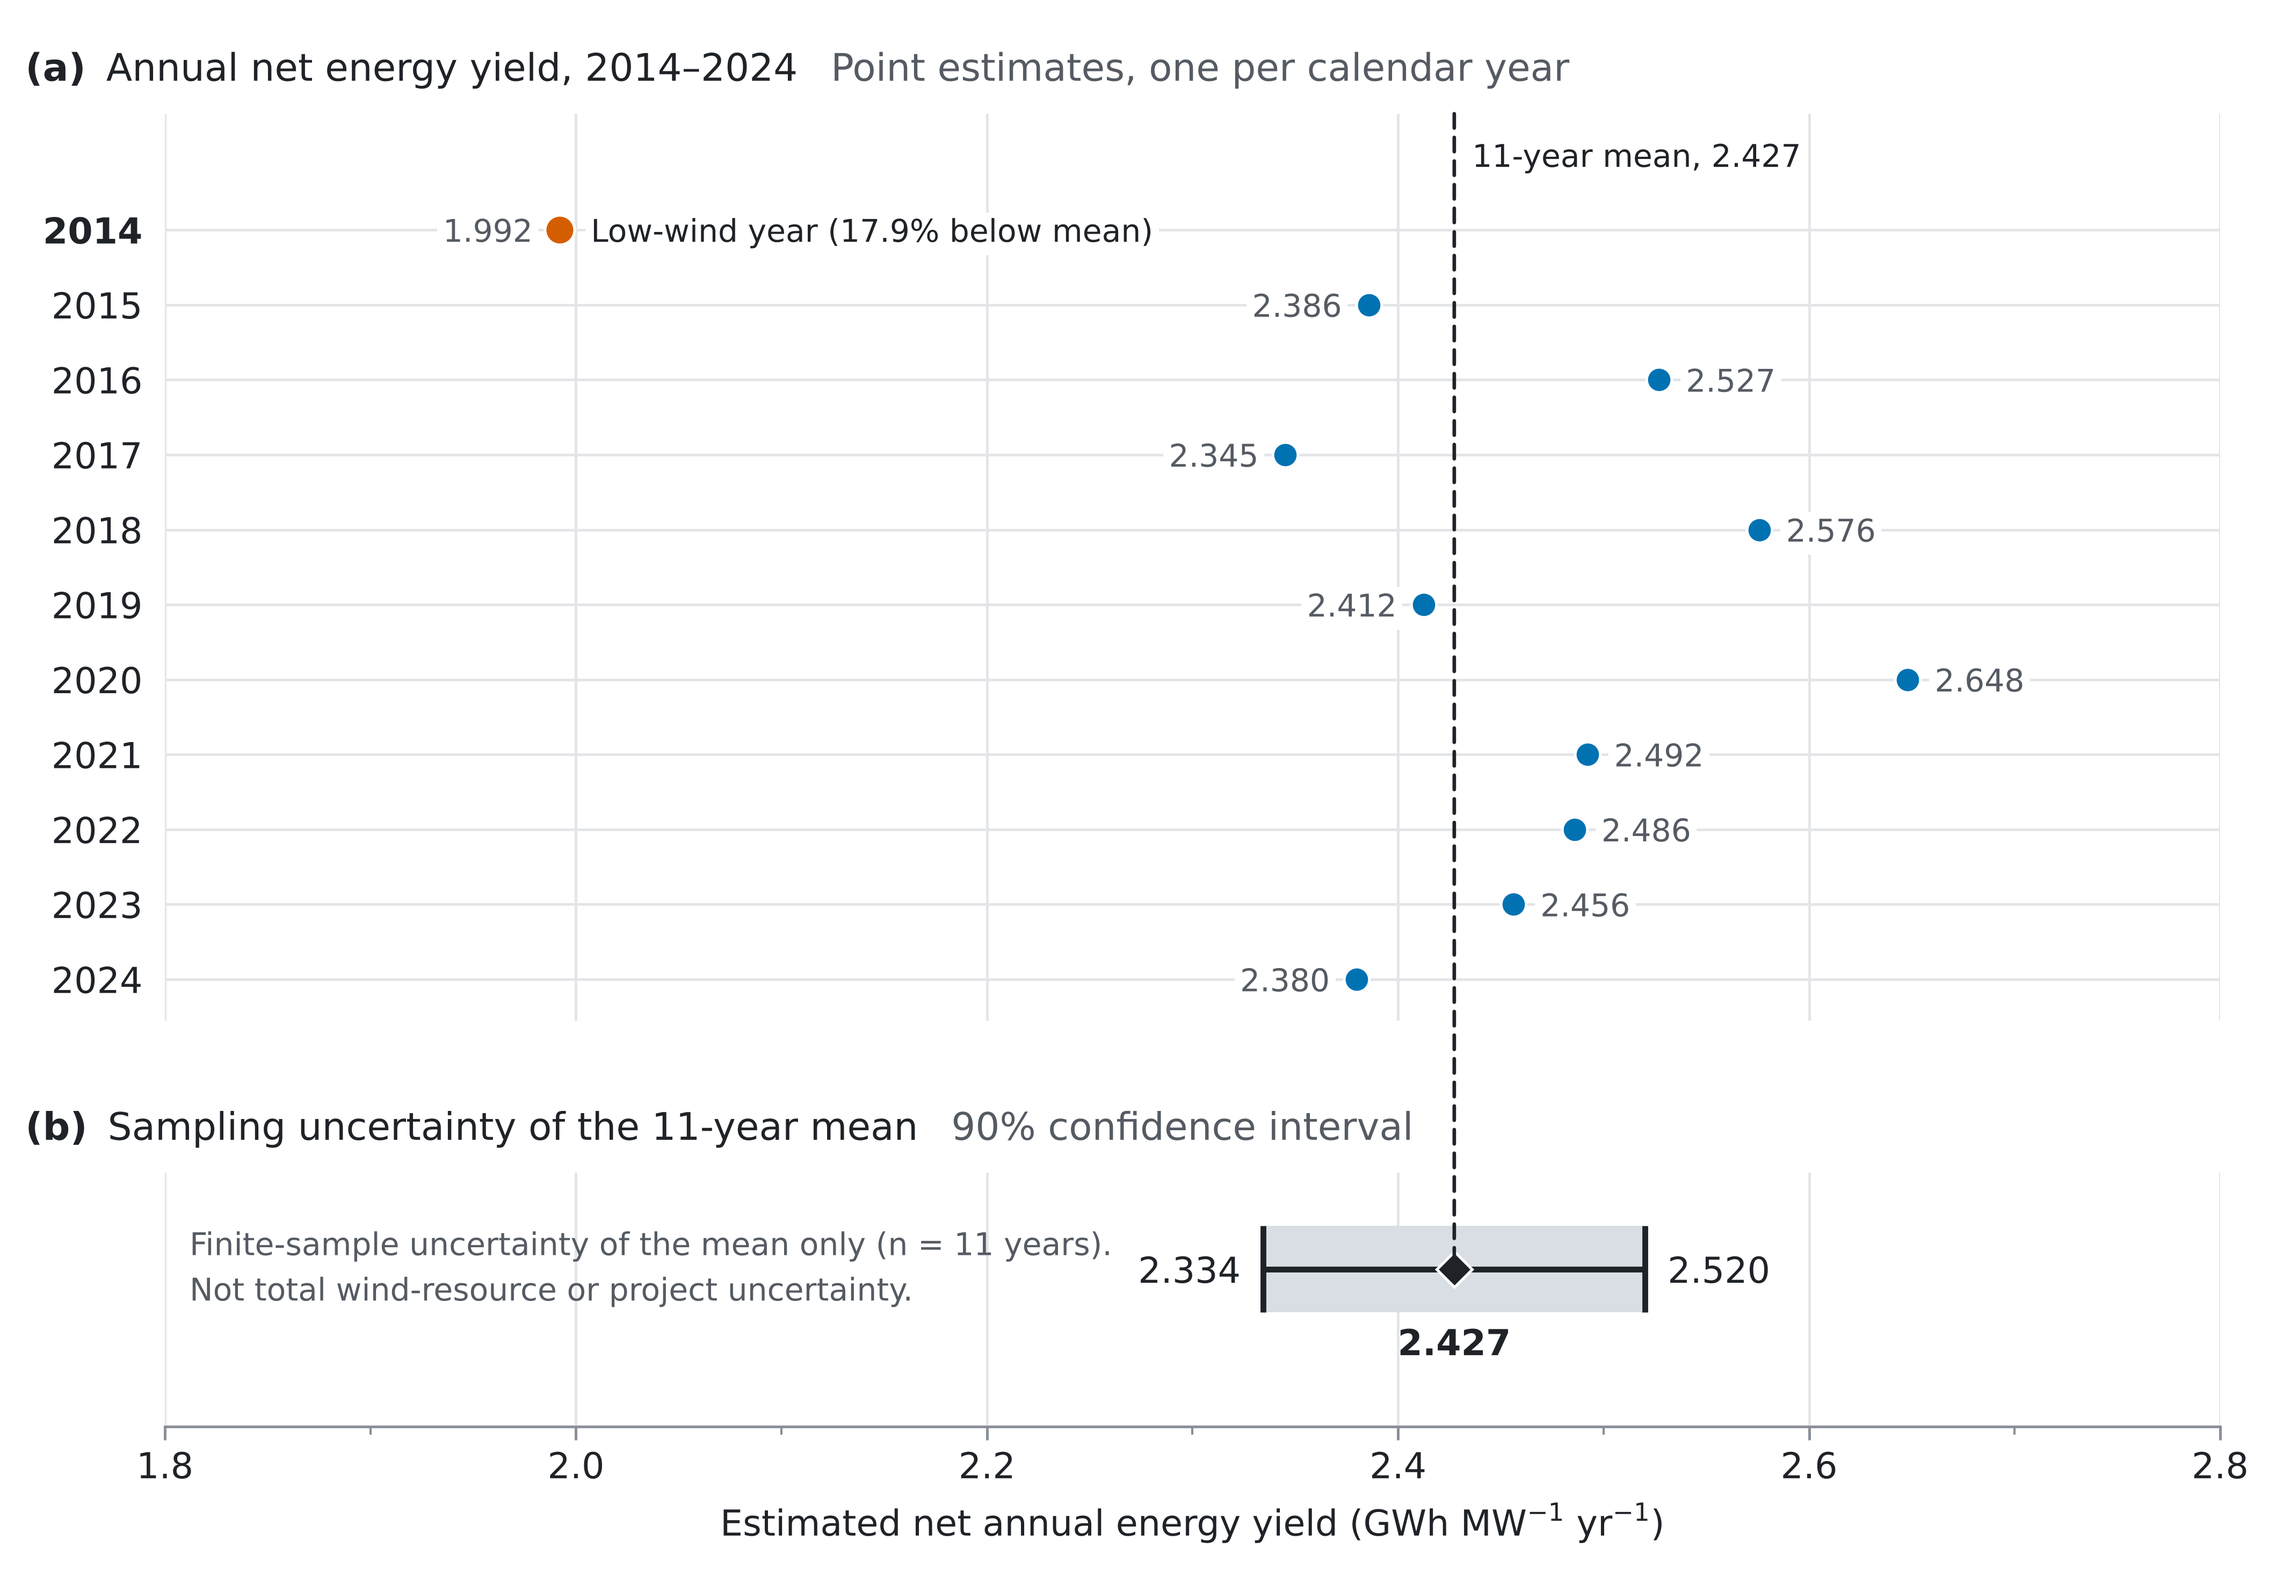
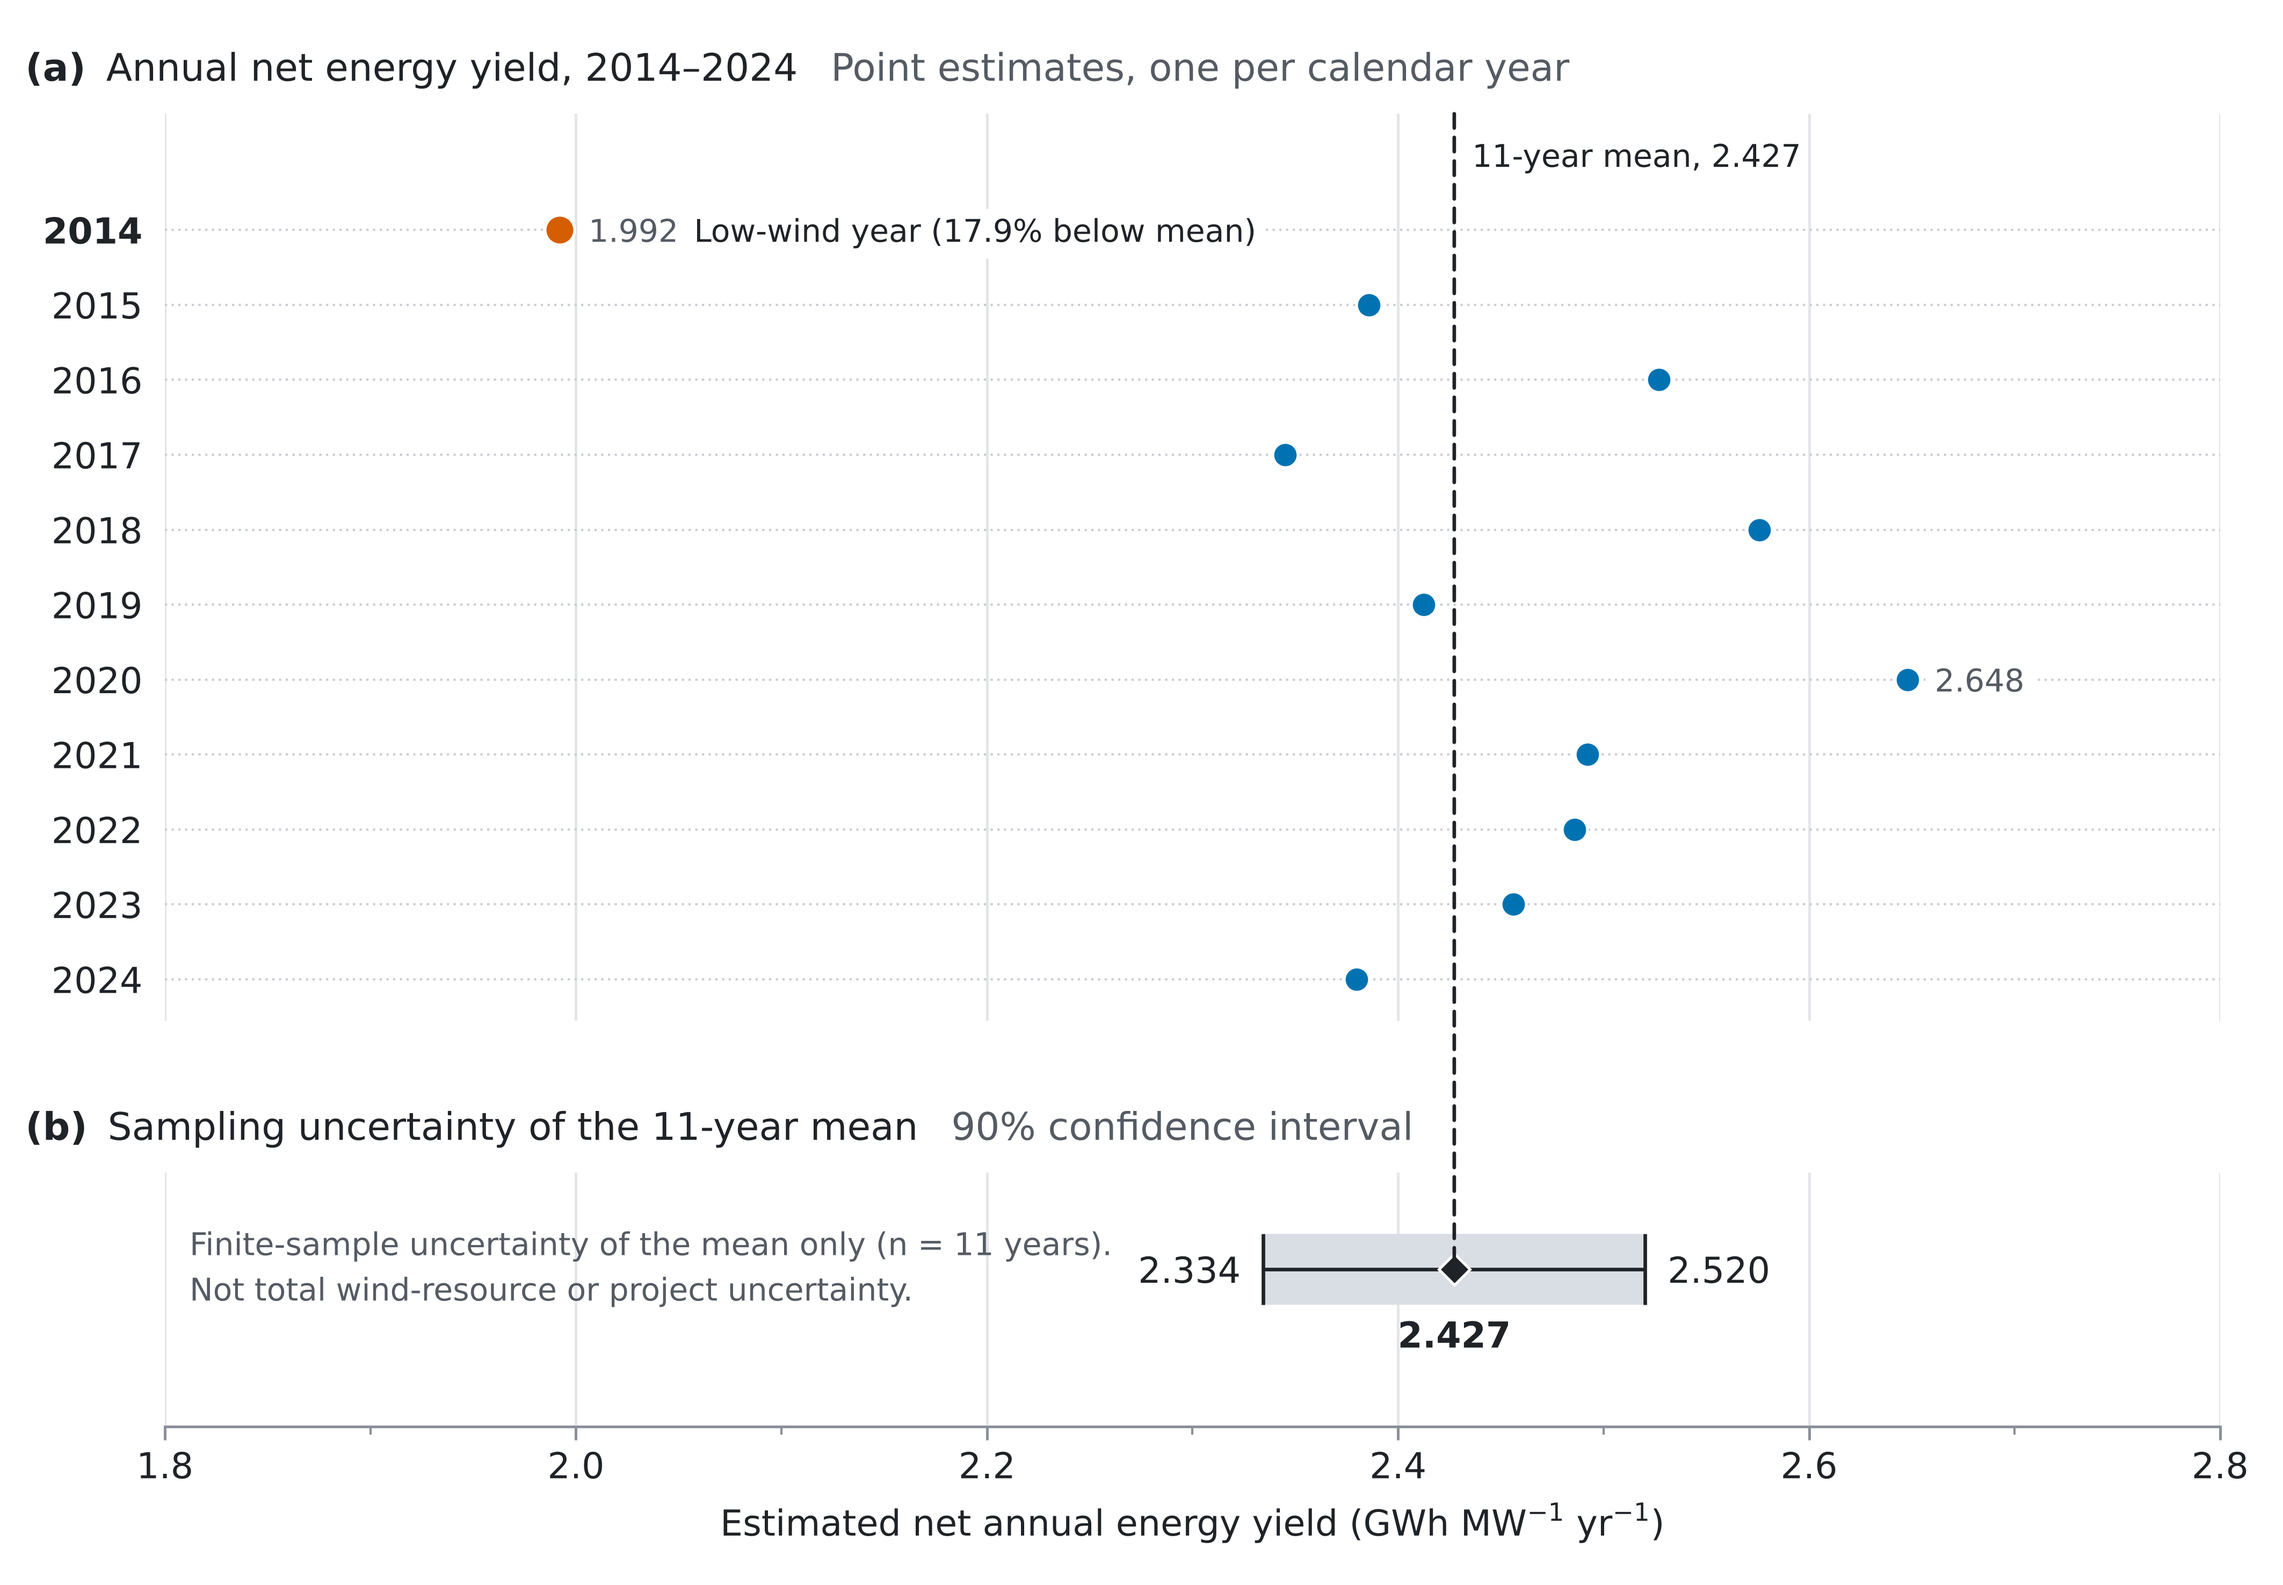
Refine Figure 1: fewer value labels, dotted row guides, lighter CI
Design unchanged; three adjustments requested in review:

- Panel (a): precise values only for 2014 (lowest) and 2020 (highest),
  both to the right of the marker. The 11-year mean label stays.
- Panel (a): row guides are now 0.5 pt dotted lines in a pale grey, so a
  guide interrupted by a label can no longer resemble a solid whisker.
  The mean label sits in the headroom row and no longer needs a mask.
- Panel (b): CI line and end caps 1.3 -> 0.8 pt, band slightly shorter,
  mean marker 5.6 -> 5.0 pt. Endpoint and mean labels unchanged.

Colours, panel layout, 180 x 125 mm size, unit typography, plotted values
and caption are unchanged. Tests now check the labelled years, the guide
style, CI stroke weight and a 0.5 pt minimum stroke width.

Claude-Session: https://claude.ai/code/session_01NHPQiu7ZM3D5HDqK6hPSoz

diff --git a/scripts/phase4c_fig_annual_energy_uncertainty.py b/scripts/phase4c_fig_annual_energy_uncertainty.py
@@ -63,9 +63,10 @@ PNG_DPI = 600
 FS_HEAD, FS_AXIS, FS_NOTE = 8.5, 8.0, 7.0
 INK, MUTED = "#1F2328", "#555B63"
 GRID, AXIS = "#E3E5E8", "#8A9099"
+GUIDE = "#C9CED4"                      # dotted row guides in (a)
 BAND = "#D9DEE5"
 # White plate behind in-plot labels so guide lines never strike through digits.
-PLATE = dict(boxstyle="square,pad=0.18", facecolor="white", edgecolor="none")
+PLATE = dict(boxstyle="square,pad=0.3", facecolor="white", edgecolor="none")
 # Okabe-Ito blue / vermillion: separable under protan, deutan and tritan vision.
 C_YEAR, C_LOW = "#0072B2", "#D55E00"
 
@@ -198,7 +199,10 @@ def build_figure(d: FigureData):
         ax_a.tick_params(axis="x", which="both", length=0, labelbottom=False)
         ax_a.tick_params(axis="y", length=0, pad=5, labelsize=FS_AXIS, labelcolor=INK)
         ax_a.set_yticks(rows, [str(y) for y in d.years])
-        ax_a.grid(axis="y", color=GRID, linewidth=0.6, zorder=0)   # full-width row guides
+        # Row guides: thin, pale and dotted, so a guide interrupted by a label can
+        # never read as a solid whisker or interval.
+        ax_a.grid(axis="y", color=GUIDE, linewidth=0.5, linestyle=(0, (1.0, 2.0)),
+                  dash_capstyle="butt", zorder=0)
         i_low = d.years.index(d.low_year)
         ax_a.get_yticklabels()[i_low].set_fontweight("bold")
 
@@ -210,20 +214,27 @@ def build_figure(d: FigureData):
                   color=C_LOW, markeredgecolor="white", markeredgewidth=0.6, zorder=3,
                   gid="low_year_point", clip_on=False)
 
-        for i, v in enumerate(d.values):           # value label on the side away from the mean
-            below = v < d.mean
-            ax_a.annotate(f"{v:.3f}", (v, i), xytext=(-6 if below else 6, 0),
-                          textcoords="offset points", ha="right" if below else "left",
-                          va="center_baseline", fontsize=FS_NOTE, color=MUTED, bbox=PLATE)
+        # Precise values only for the two extreme years, both to the right of the
+        # point, so a row guide is never interrupted on both sides of a marker.
+        renderer = fig.canvas.get_renderer()
+        i_high = d.years.index(d.high_year)
+        value_low = ax_a.annotate(f"{d.values[i_low]:.3f}", (d.values[i_low], i_low),
+                                  xytext=(6.5, 0), textcoords="offset points", ha="left",
+                                  va="center_baseline", fontsize=FS_NOTE, color=MUTED, bbox=PLATE)
+        value_w = value_low.get_window_extent(renderer).width * 72 / fig.dpi
         ax_a.annotate(f"Low-wind year ({d.low_pct_below_mean:.1f}% below mean)",
-                      (d.values[i_low], i_low), xytext=(7, 0), textcoords="offset points",
-                      ha="left", va="center_baseline", fontsize=FS_NOTE, color=INK, bbox=PLATE)
-        ax_a.annotate(f"{d.n}-year mean, {d.mean:.3f}", (d.mean, -1.0), xytext=(4, 0),
+                      (d.values[i_low], i_low), xytext=(6.5 + value_w + 3.5, 0),
                       textcoords="offset points", ha="left", va="center_baseline",
                       fontsize=FS_NOTE, color=INK, bbox=PLATE)
+        ax_a.annotate(f"{d.values[i_high]:.3f}", (d.values[i_high], i_high), xytext=(6, 0),
+                      textcoords="offset points", ha="left", va="center_baseline",
+                      fontsize=FS_NOTE, color=MUTED, bbox=PLATE)
+        ax_a.annotate(f"{d.n}-year mean, {d.mean:.3f}", (d.mean, -1.0), xytext=(4, 0),
+                      textcoords="offset points", ha="left", va="center_baseline",
+                      fontsize=FS_NOTE, color=INK)          # headroom row: nothing to mask
 
         # ---- (b) sampling confidence interval of the mean -------------------
-        y0, half = 0.62, 0.17
+        y0, half = 0.62, 0.14
         ax_b.set_ylim(0, 1)
         ax_b.set_yticks([])
         ax_b.spines["bottom"].set_color(AXIS)
@@ -237,12 +248,12 @@ def build_figure(d: FigureData):
 
         ax_b.add_patch(Rectangle((d.ci_lo, y0 - half), d.ci_hi - d.ci_lo, 2 * half,
                                  facecolor=BAND, edgecolor="none", zorder=1))
-        ax_b.plot([d.ci_lo, d.ci_hi], [y0, y0], color=INK, linewidth=1.3, zorder=2,
+        ax_b.plot([d.ci_lo, d.ci_hi], [y0, y0], color=INK, linewidth=0.8, zorder=2,
                   solid_capstyle="butt", gid="ci_interval")
         for x in (d.ci_lo, d.ci_hi):
-            ax_b.plot([x, x], [y0 - half, y0 + half], color=INK, linewidth=1.3, zorder=2,
+            ax_b.plot([x, x], [y0 - half, y0 + half], color=INK, linewidth=0.8, zorder=2,
                       solid_capstyle="butt")
-        ax_b.plot([d.mean], [y0], linestyle="none", marker="D", markersize=5.6, color=INK,
+        ax_b.plot([d.mean], [y0], linestyle="none", marker="D", markersize=5.0, color=INK,
                   markeredgecolor="white", markeredgewidth=0.6, zorder=4, gid="mean_marker")
         for x, dx, ha in ((d.ci_lo, -5, "right"), (d.ci_hi, 5, "left")):
             ax_b.annotate(f"{x:.3f}", (x, y0), xytext=(dx, 0), textcoords="offset points",

diff --git a/tests/test_phase4c_figure.py b/tests/test_phase4c_figure.py
@@ -127,15 +127,35 @@ def test_every_year_is_plotted_at_its_own_value(fig, data):
             plotted[int(labels[int(y)])] = float(x)
     assert plotted == _csv_values()
     assert int(labels[int(_gid(ax, "low_year_point").get_ydata()[0])]) == data.low_year
-    # value labels printed beside the markers agree with the CSV too
+    # precise values are printed for the two extreme years only, and agree with the CSV
     printed = sorted(t.get_text() for t in ax.texts if re.fullmatch(r"\d\.\d{3}", t.get_text()))
-    assert printed == sorted(f"{v:.3f}" for v in _csv_values().values())
+    assert printed == sorted(f"{data.value(y):.3f}" for y in (data.low_year, data.high_year))
+    assert any(t.get_text() == f"{data.n}-year mean, {data.mean:.3f}" for t in ax.texts)
 
 
 def test_panel_a_draws_point_estimates_only(fig):
     ax = _axes(fig)["panel_a"]
     assert ax.lines and all(ln.get_linestyle() == "None" for ln in ax.lines)   # markers, no segments
     assert not ax.patches and not ax.collections and not ax.containers
+
+
+def test_row_guides_cannot_read_as_intervals(fig):
+    ax = _axes(fig)["panel_a"]
+    guides = [ln for ln in ax.yaxis.get_gridlines() if ln.get_visible()]
+    columns = [ln for ln in ax.xaxis.get_gridlines() if ln.get_visible()]
+    assert guides and columns
+    for g in guides:                                # dotted, and lighter than the x grid
+        assert g.get_linestyle() not in ("-", "solid")
+        assert g.get_linewidth() < columns[0].get_linewidth()
+    # labels sit only to the right of their markers, so no guide is cut on both sides
+    for t in ax.texts:
+        assert t.get_horizontalalignment() == "left"
+
+
+def test_ci_is_drawn_with_light_strokes(fig):
+    ax = _axes(fig)["panel_b"]
+    ci = [ln for ln in ax.lines if ln.get_linestyle() != "None"]
+    assert ci and all(ln.get_linewidth() <= 0.8 for ln in ci)
 
 
 def test_panel_b_shows_the_authoritative_interval(fig, data):
@@ -161,6 +181,14 @@ def test_layout_is_clean_and_fonts_are_bundled(m, fig):
     assert used == {"DejaVu Sans"}
     sizes = {t.get_fontsize() for t in fig.findobj(Text) if t.get_visible() and t.get_text().strip()}
     assert min(sizes) >= 7.0 and len(sizes) <= 3
+
+
+def test_strokes_survive_print_at_actual_size(fig):
+    # 0.5 pt (0.18 mm) is the thinnest stroke drawn; nothing finer that a press could drop
+    from matplotlib.lines import Line2D
+    widths = [ln.get_linewidth() for ln in fig.findobj(Line2D)
+              if ln.get_visible() and ln.get_linestyle() != "None"]
+    assert widths and min(widths) >= 0.5
 
 
 def test_exact_180_by_125_mm_outputs(outputs):
@@ -190,9 +218,11 @@ def test_pdf_text_has_no_orphaned_unit_symbols(outputs, data):
     assert "Estimated net annual energy yield (GWh MW−1 yr−1)" in lines
     assert text.count("GWh") == 1
     assert not [ln for ln in lines if re.fullmatch(r"(yr|MW|GWh|[−-]1\)?|\))", ln)]
-    for year, value in zip(data.years, data.values):                 # each year shares a line with its value
+    for year, value in zip(data.years, data.values):                 # only extreme years carry values
         (row,) = [ln for ln in lines if ln.startswith(str(year))]
-        assert f"{value:.3f}" in row
+        labelled = year in (data.low_year, data.high_year)
+        assert (f"{value:.3f}" in row) is labelled
+        assert bool(re.search(r"\d\.\d{3}", row)) is labelled
 
 
 def test_committed_caption_matches_the_data(m, data):
